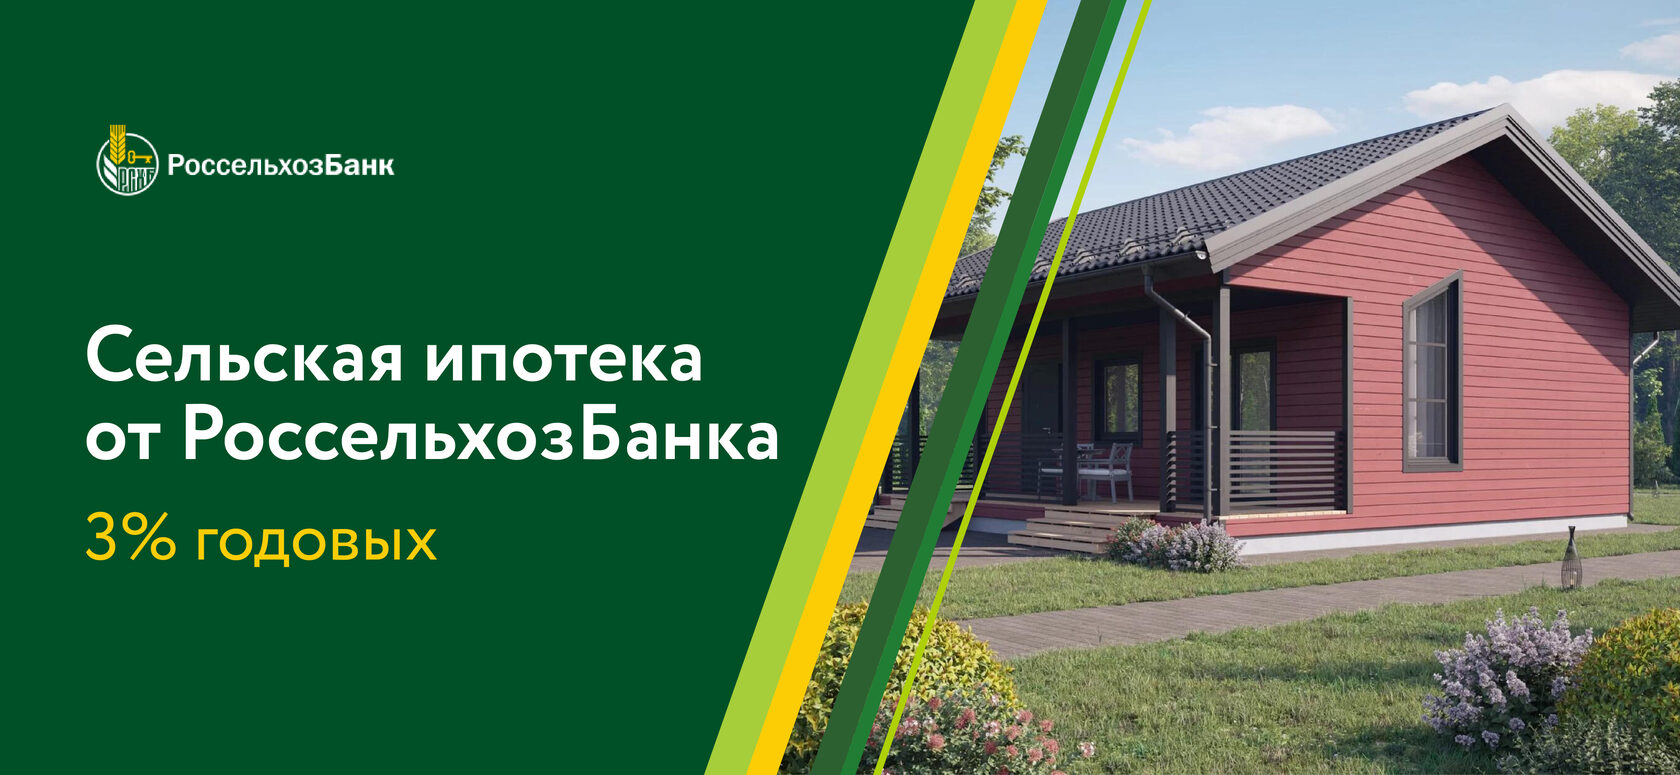
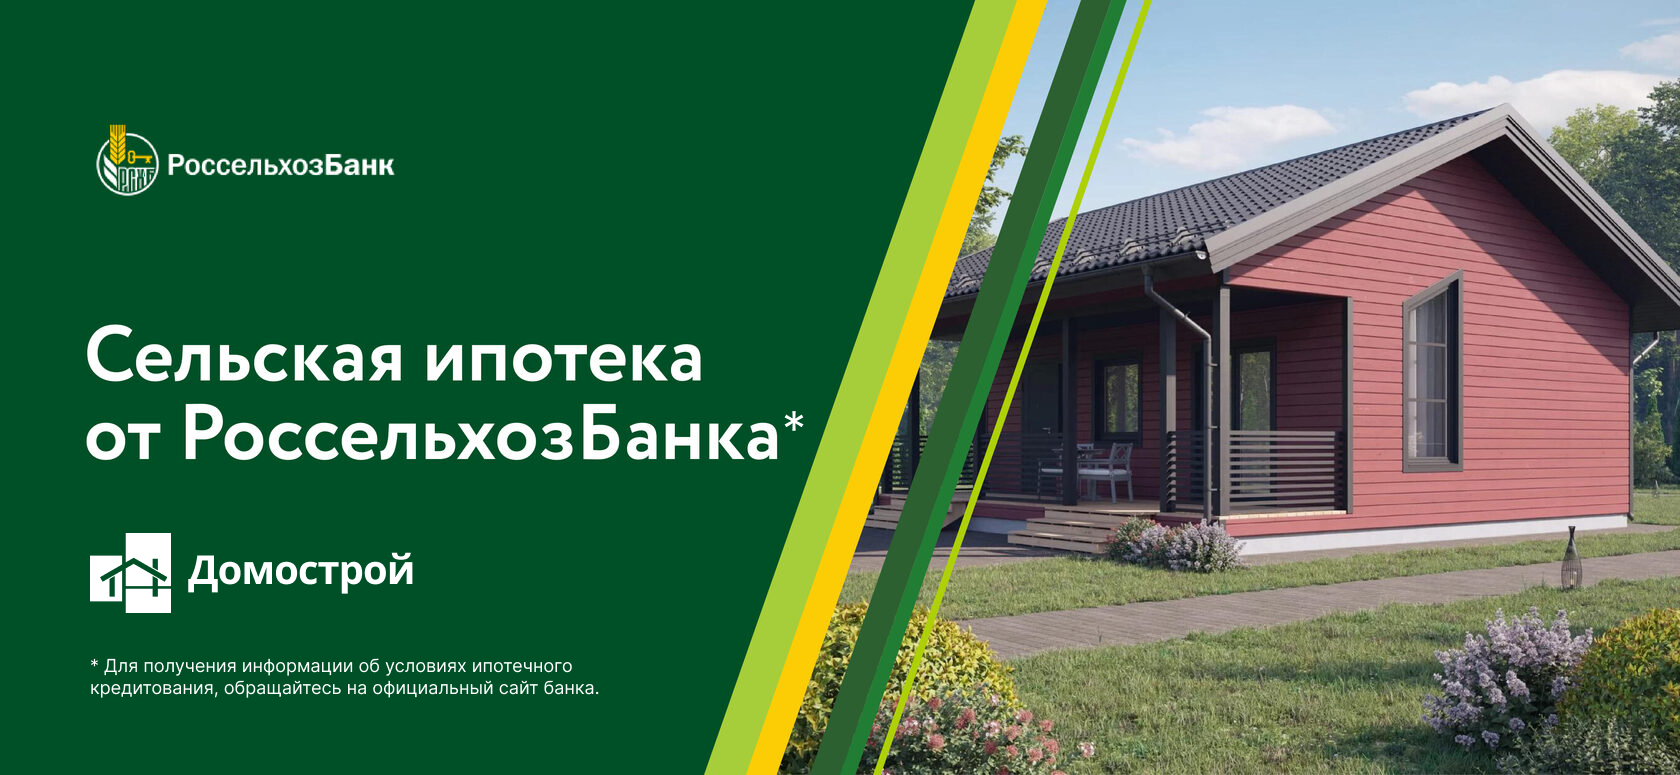
Добавил ссылки на картинки с ипотекой

Changed region(s): [[0.031, 0.6503, 0.2786, 0.8052], [0.0619, 0.8361, 0.3714, 0.8981], [0.4643, 0.5265, 0.4952, 0.5574]]

diff --git a/components/index/MortgageSection.vue b/components/index/MortgageSection.vue
@@ -30,17 +30,21 @@ const slides = [
   {
     id: 1,
     img: Mortgage1,
-    alt: "Ипотека в Россельхозбанке"
+    alt: "Ипотека в Россельхозбанке",
+    href: 'https://svoe-selo.ru/partners/obshhestvo-s-ogranichennoj-otvetstvennostyu-sistema-2/house-projects'
   },
   {
     id: 2,
     img: Mortgage2,
-    alt: "Ипотека в Почтабанке"
+    alt: "Ипотека в Сбербанке",
+    href: 'http://www.sberbank.ru/ru/person/credits/home/building'
   },
   {
     id: 3,
     img: Mortgage3,
-    alt: "Ипотека в Сбербанке"
+    alt: "Ипотека в Почтабанке",
+    href: 'https://www.pochtabank.ru/service/mortgage/ipoteka_na_stroitelstvo_doma'
+
   },
 ]
 const active = ref(1)

diff --git a/components/index/MortgageSection/Slider.vue b/components/index/MortgageSection/Slider.vue
@@ -5,7 +5,9 @@
           v-for="(slide, index) in slides"
           v-show="slide.id == active"
           :key="index">
-        <img :src="slide.img" :alt="slide.alt"/>
+        <a :href="slide.href" target="_blank">
+          <img :src="slide.img" :alt="slide.alt"/>
+        </a>
       </div>
     </div>
     <ul class="dots">
@@ -21,10 +23,11 @@
 <script setup lang="ts">
 
 const props = defineProps({
-  slides: { type: Object, required: true },
+  slides: {type: Object, required: true},
 });
 
 let active = defineModel();
+
 function jump(index) {
   active.value = index
 }
